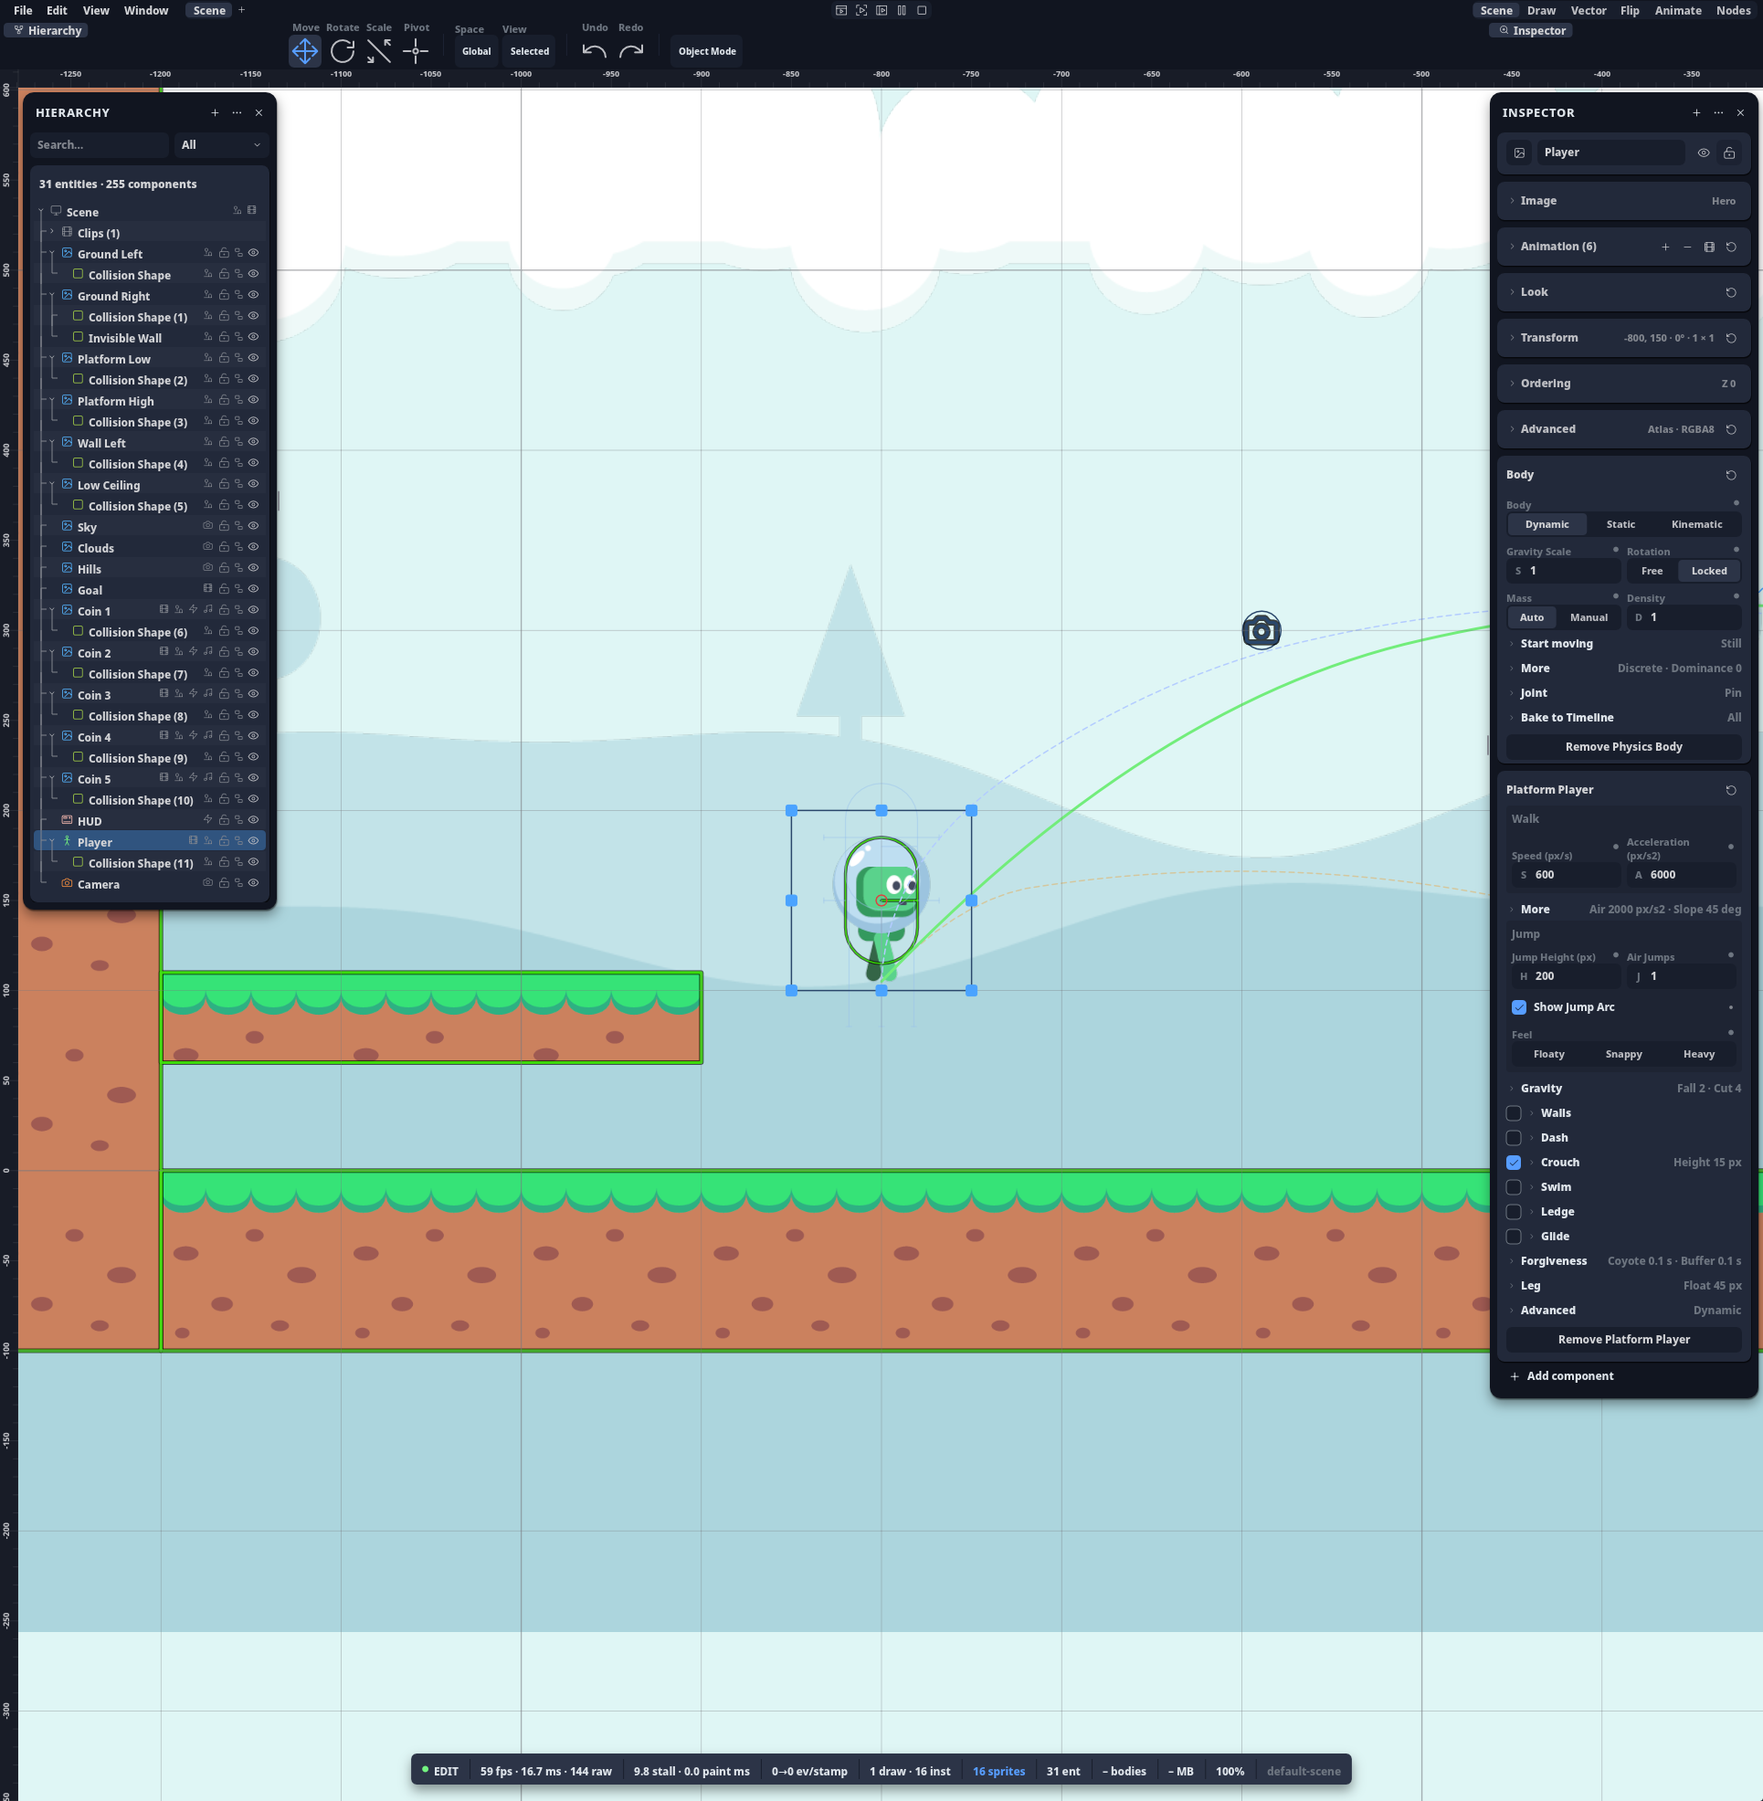
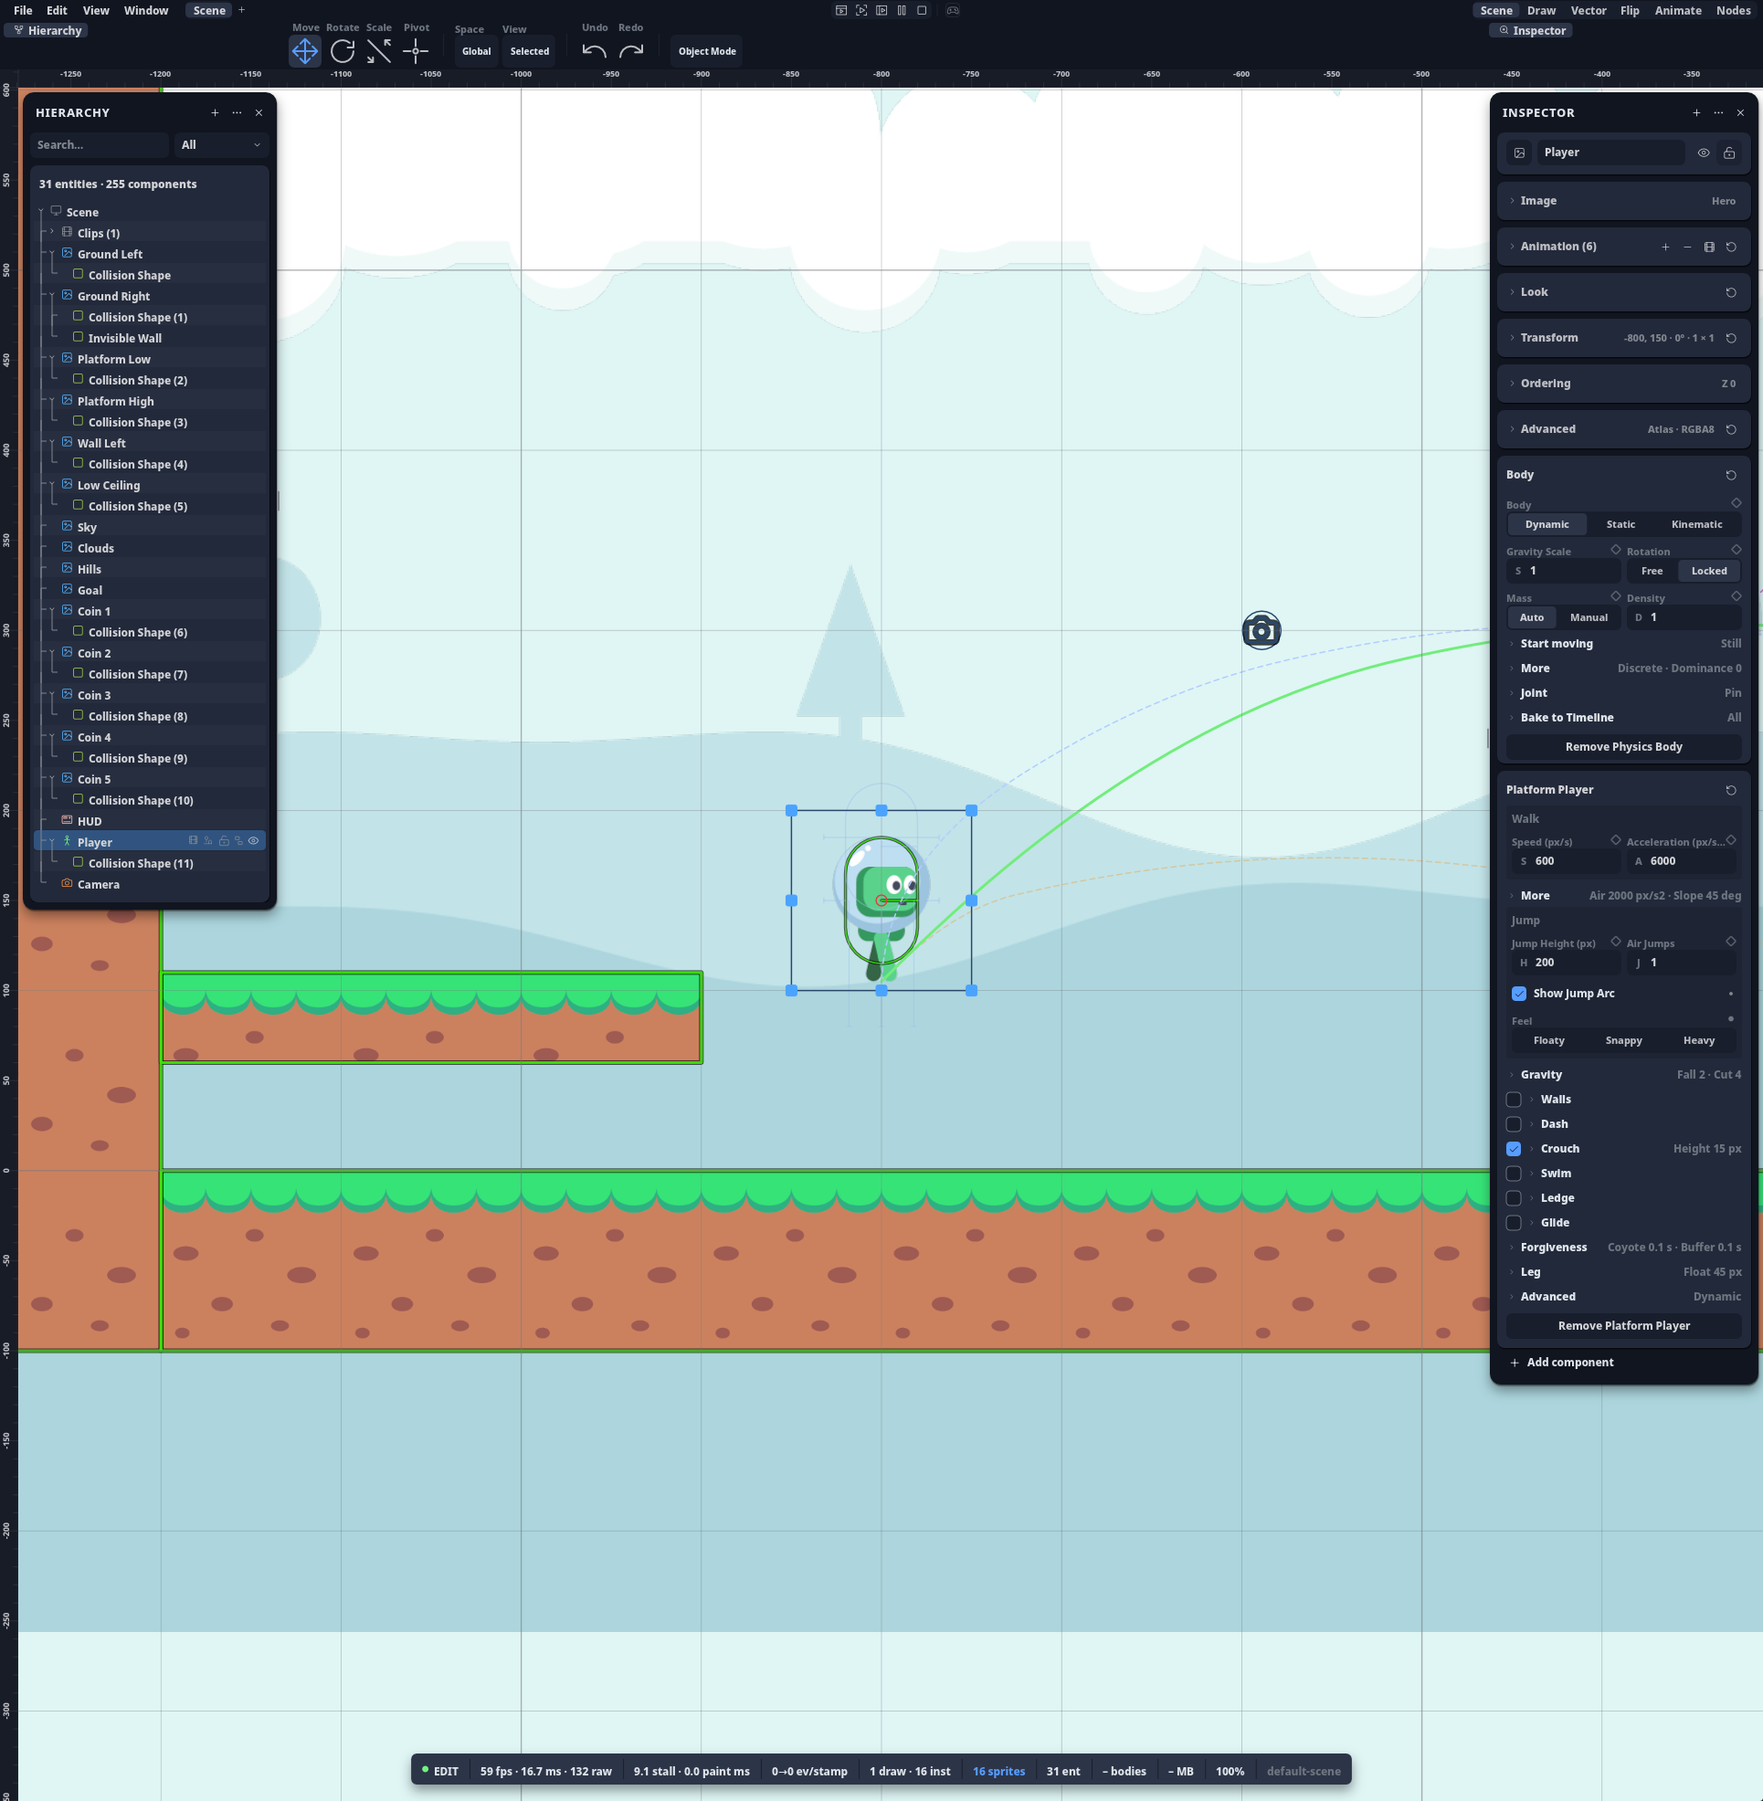
docs(GEF 04): fotos da curva no terreno e a altura real; ficha
Foto nova PH2D_GAME_SMOKE_FOTO=fisica_player_pulo_terreno (CasoFisica::PlayerPuloTerreno): o Player sobre a Platform Low, RECUO_DA_BORDA 2,1 m da borda direita — o Full desce ao chão da direita, o Standing pousa na Platform High, o Short pára na parede dela; vista de 16 m (VISTA_DO_TERRENO). Gate a_foto_do_terreno_desce_ao_chao_e_pousa_na_plataforma_alta (mutações: recuo 0,5 ⇒ Standing passa por cima; pose não movida ⇒ vermelho). curva_e_cartao.png refeita.

diff --git a/crates/ph2d-physics-scene/src/fotos_dos_cartoes_tests.rs b/crates/ph2d-physics-scene/src/fotos_dos_cartoes_tests.rs
@@ -1,0 +1,125 @@
+//! A foto `fisica_player_pulo_terreno` (ficha GEF 04, 12/11) mostra o que promete: na borda da «Platform Low»,
+//! uma curva desce ao chão de baixo e outra pousa na «Platform High».
+
+use super::*;
+use ph2d_physics_ecs::{PhysicsSettings, PlatformPlayer, arc_world};
+
+/// Os blocos do nível 2 que a foto enquadra (`ph2d_app_game::smoke::BLOCOS_2`: a crate do jogo está acima desta).
+const BLOCOS: [(&str, [f32; 2], [f32; 2]); 4] = [
+    ("Ground Left", [-5.0, -0.5], [7.0, 0.5]),
+    ("Ground Right", [11.0, -0.5], [6.0, 0.5]),
+    ("Platform Low", [3.5, 0.85], [1.2, 0.25]),
+    ("Platform High", [8.5, 2.0], [1.5, 0.25]),
+];
+const ALTA_TOPO: f32 = 2.25;
+const ALTA_X: [f32; 2] = [7.0, 10.0];
+
+fn nivel() -> SimWorld {
+    let mut sim = SimWorld::new();
+    let w = sim.world_mut();
+    for (nome, c, h) in BLOCOS {
+        w.spawn((
+            Transform::from_translation(Vec2::new(c[0], c[1])),
+            Name::new(nome),
+            Sprite::atlas(WHITE_TILE_KEY, [2.0 * h[0], 2.0 * h[1]], [1.0; 4]),
+            RigidBody {
+                kind: BodyKind::Static,
+            },
+            Collider {
+                shape: ColliderShape::Cuboid {
+                    half_x: h[0],
+                    half_y: h[1],
+                },
+                ..Collider::default()
+            },
+        ));
+    }
+    w.spawn((
+        Transform::from_translation(Vec2::new(-8.0, 1.5)),
+        Name::new("Player"),
+        RigidBody {
+            kind: BodyKind::Dynamic,
+        },
+        Collider {
+            shape: ColliderShape::Capsule {
+                half_height: 0.15,
+                radius: 0.2,
+            },
+            ..Collider::default()
+        },
+        PlatformPlayer {
+            float_height: 0.45,
+            ..PlatformPlayer::default()
+        },
+    ));
+    sim
+}
+
+/// Onde cada curva toca o terreno, em mundo, e o pé do arranque.
+struct Toques {
+    chao: [f32; 2],
+    full: Option<[f32; 2]>,
+    short: Option<[f32; 2]>,
+    standing: Option<[f32; 2]>,
+}
+
+fn toques(sim: &mut SimWorld, caso: CasoFisica) -> Toques {
+    let bits = prepara(sim, caso, [0.0, 0.0]).expect("o Player");
+    let e = Entity::from_bits(bits);
+    let w = sim.world();
+    let p = w.get::<PlatformPlayer>(e).expect("player");
+    let t = w.get::<Transform>(e).expect("pose");
+    assert!(p.show_jump_arc && p.air_jumps == 1, "a curva ligada");
+    let s = PhysicsSettings::default();
+    let mundo = arc_world(&s, 1.0);
+    let up = ph2d_physics_ecs::jump_arc::up_of_gravity(mundo.gravity);
+    let chao = [
+        t.translation.x - up[0] * p.float_height,
+        t.translation.y - up[1] * p.float_height,
+    ];
+    let mut a = p.jump_arcs(mundo);
+    ph2d_physics_ecs::arc_terrain::cut_on_terrain(w, &s, e, chao, up, &mut a);
+    let m =
+        |a: &ph2d_physics_ecs::jump_arc::JumpArc| a.touch.map(|t| [chao[0] + t[0], chao[1] + t[1]]);
+    Toques {
+        chao,
+        full: m(&a.full),
+        short: m(&a.short),
+        standing: m(&a.standing),
+    }
+}
+
+#[test]
+fn a_foto_do_terreno_desce_ao_chao_e_pousa_na_plataforma_alta() {
+    assert_eq!(
+        caso("fisica_player_pulo_terreno"),
+        Some(CasoFisica::PlayerPuloTerreno)
+    );
+    let t = toques(&mut nivel(), CasoFisica::PlayerPuloTerreno);
+    assert!(
+        (t.chao[1] - 1.1).abs() < 1e-4 && (t.chao[0] - (4.7 - RECUO_DA_BORDA)).abs() < 1e-4,
+        "o pé sobre a Platform Low: {:?}",
+        t.chao
+    );
+    let full = t.full.expect("o Full toca");
+    assert!(
+        full[1].abs() < 0.05 && full[0] > 5.0,
+        "o Full desce ao chão de baixo, além do vão: {full:?}"
+    );
+    let st = t.standing.expect("o Standing toca");
+    assert!(
+        (st[1] - ALTA_TOPO).abs() < 0.05 && (ALTA_X[0]..=ALTA_X[1]).contains(&st[0]),
+        "o Standing pousa em cima da Platform High: {st:?}"
+    );
+    let sh = t.short.expect("o Short toca");
+    assert!(
+        sh[0] < ALTA_X[0] && sh[1] > t.chao[1] && sh[1] < ALTA_TOPO,
+        "o Short pára no ar, na parede da Platform High (o pé abaixo do topo dela): {sh:?}"
+    );
+}
+
+#[test]
+fn a_foto_do_pulo_deixa_o_player_onde_a_cena_o_pos() {
+    let t = toques(&mut nivel(), CasoFisica::PlayerPulo);
+    assert!((t.chao[0] + 8.0).abs() < 1e-4 && (t.chao[1] - 1.05).abs() < 1e-4);
+}

diff --git a/crates/ph2d-physics-scene/src/fotos_dos_cartoes.rs b/crates/ph2d-physics-scene/src/fotos_dos_cartoes.rs
@@ -35,6 +35,9 @@ pub enum CasoFisica {
     PlayerCartoes,
     /// O mesmo com a curva do pulo no canvas (ficha GEF 04): «Show Jump Arc» marcado e um pulo do ar.
     PlayerPulo,
+    /// O mesmo sobre a «Platform Low» (12/11): o Full desce ao chão de baixo, o Standing pousa na
+    /// «Platform High» e o Short pára na parede dela.
+    PlayerPuloTerreno,
     /// Uma forma sem corpo acima: a «Collision Shape» acabada de nascer do menu Add.
     Solta,
     /// Uma forma dentro de um corpo.
@@ -177,6 +180,7 @@ pub fn caso(nome: &str) -> Option<CasoFisica> {
         "player" => CasoFisica::Player,
         "player_cartoes" => CasoFisica::PlayerCartoes,
         "player_pulo" => CasoFisica::PlayerPulo,
+        "player_pulo_terreno" => CasoFisica::PlayerPuloTerreno,
         "solta" => CasoFisica::Solta,
         "peca" => CasoFisica::Peca,
         "vazia" => CasoFisica::Vazia,
@@ -233,6 +237,20 @@ pub fn imagem_de(sim: &SimWorld, alvo: u64) -> u64 {
         .map_or(alvo, |c| c.parent().to_bits())
 }
 
+/// Do pé do player à borda direita da «Platform Low» (m). Sonda de 12/11 com os padrões: a 2,1 m o Standing
+/// pousa na alta (x 9,46), o Full desce ao chão (11,78) e o Short bate na parede da alta (6,8); a 0,5 m o
+/// Standing já passa por cima dela.
+pub const RECUO_DA_BORDA: f32 = 2.1;
+
+/// A borda direita e o topo da «Platform Low», pelo desenho do bloco (o azulejo tem o tamanho dele).
+fn borda_da_baixa(sim: &mut SimWorld) -> Option<[f32; 2]> {
+    let e = por_nome(sim, "Platform Low")?;
+    let w = sim.world();
+    let (t, s) = (w.get::<Transform>(e)?, w.get::<Sprite>(e)?);
+    let meia = [0.5 * s.size[0] * t.scale.x, 0.5 * s.size[1] * t.scale.y];
+    Some([t.translation.x + meia[0], t.translation.y + meia[1]])
+}
+
 /// Monta o caso no mundo e devolve quem fica selecionado: o corpo nas fotos do cartão Body, a filha
 /// «Collision Shape» nas da forma (o Pivot da [`CasoFisica::FormaPivo`] é da imagem: o pai dela).
 pub fn prepara(sim: &mut SimWorld, caso: CasoFisica, onde: [f32; 2]) -> Option<u64> {
@@ -246,14 +264,23 @@ pub fn prepara(sim: &mut SimWorld, caso: CasoFisica, onde: [f32; 2]) -> Option<u
         CasoFisica::Player | CasoFisica::PlayerCartoes | CasoFisica::FormaPlayer => {
             return por_nome(sim, "Player").map(|e| e.to_bits());
         }
-        CasoFisica::PlayerPulo => {
+        CasoFisica::PlayerPulo | CasoFisica::PlayerPuloTerreno => {
             let e = por_nome(sim, "Player")?;
-            if let Some(mut p) = sim
-                .world_mut()
-                .get_mut::<ph2d_physics_ecs::PlatformPlayer>(e)
-            {
+            let borda = match caso {
+                CasoFisica::PlayerPuloTerreno => Some(borda_da_baixa(sim)?),
+                _ => None,
+            };
+            let w = sim.world_mut();
+            let mut float = 0.0;
+            if let Some(mut p) = w.get_mut::<ph2d_physics_ecs::PlatformPlayer>(e) {
                 p.show_jump_arc = true;
                 p.air_jumps = 1;
+                float = p.float_height;
+            }
+            if let Some([direita, topo]) = borda
+                && let Some(mut t) = w.get_mut::<Transform>(e)
+            {
+                t.translation = Vec2::new(direita - RECUO_DA_BORDA, topo + float);
             }
             return Some(e.to_bits());
         }
@@ -271,6 +298,7 @@ pub fn prepara(sim: &mut SimWorld, caso: CasoFisica, onde: [f32; 2]) -> Option<u
         | CasoFisica::Player
         | CasoFisica::PlayerCartoes
         | CasoFisica::PlayerPulo
+        | CasoFisica::PlayerPuloTerreno
         | CasoFisica::FormaPlayer
         | CasoFisica::Baixa
         | CasoFisica::Larga => {
@@ -482,3 +510,7 @@ pub fn estado_do_player(sim: &mut SimWorld) -> String {
                 .and_then(|s| s.look.map(|l| (l.size, l.tiled.map(|t| t.tile)))))),
     )
 }
+
+#[cfg(test)]
+#[path = "fotos_dos_cartoes_tests.rs"]
+mod tests;

diff --git a/crates/ph2d-game-smoke-fotos/src/foto.rs b/crates/ph2d-game-smoke-fotos/src/foto.rs
@@ -235,6 +235,9 @@ pub struct FotoDaCamera {
 
 /// A vista do editor nas fotos da câmera: a câmera do nível ao lado do vão, com margem à volta.
 const VISTA_DA_CAMERA: ([f32; 2], f32) = ([-6.0, 3.0], 15.0);
+/// A vista da curva no terreno (GEF 04): o smoke centra-a no Player selecionado (`SetViewFocus`), e 16 m de
+/// altura alcançam o pouso do Full no chão da direita (x ≈ 11,8) entre a Hierarchy e o Inspector.
+const VISTA_DO_TERRENO: ([f32; 2], f32) = ([2.6, 1.6], 16.0);
 
 /// O que a foto pede, já resolvido no mundo — os gestos que o shell executa pelas MESMAS portas da mão.
 #[derive(Clone, Debug, PartialEq)]
@@ -316,6 +319,14 @@ pub fn plano_da_foto(
         Foto::Fisica(c) => {
             use ph2d_physics_scene::fotos_dos_cartoes as fisica;
             plano.alvo = fisica::prepara(sim, c, ONDE_LARGA)?;
+            if c == fisica::CasoFisica::PlayerPuloTerreno {
+                plano.camera = Some(FotoDaCamera {
+                    formato: ph2d_editor_core::GameFormat::default(),
+                    olhar: false,
+                    vista: VISTA_DO_TERRENO,
+                    canvas: ph2d_editor_core::CameraCanvasView::default(),
+                });
+            }
             if c == fisica::CasoFisica::Larga {
                 plano.edicoes = vec![(plano.alvo, ph2d_editor_core::ImageUseEdit::Width(4.0))];
             }

diff --git a/docs/GameEngineFuncional/componentes/04_curva_do_pulo.md b/docs/GameEngineFuncional/componentes/04_curva_do_pulo.md
@@ -16,7 +16,7 @@ Maquete: [`f4_maquete.html`](f4_maquete.html) · [foto](f4_maquete.png).
   com o botão solto na subida → `cut_gravity` (`:550`, não desarma); `|v| ≤ peak_speed` → `peak_gravity`;
   descendo → `fall_gravity`. O passo do jogador inteiro é `lib.rs:180` `player_motor(...)`; o andar no ar é
   `walk.rs` (`air_acceleration`, padrão 20).
-- **Consequência medida:** a altura REAL do ápice ≠ `jump_height` (o doc do módulo avisa: «altura de gravidade
+- **Consequência medida (antes de 12/11; hoje o ápice É a Jump Height):** a altura REAL do ápice ≠ `jump_height` (o doc do módulo avisa: «altura de gravidade
   neutra»). Com os padrões, 2,00 m autorados sobem 2,04 m. **Não há** função que derive o arco (ápice, tempo,
   alcance); a única medição é por simulação num teste ignorado (`ph2d-physics-ecs/tests/it/platform_jump.rs:281`).
 - **Parâmetros** — `JumpConfig` (`jump_config.rs:89`, padrões `:234`: H 2 · Air Jumps 0 · Air H 2 · Takeoff G 1
@@ -51,8 +51,8 @@ Maquete: [`f4_maquete.html`](f4_maquete.html) · [foto](f4_maquete.png).
 
 ### Canvas (com o player selecionado e a caixa marcada)
 
-Origem: os pés do player, para o lado em que ele olha. Chão de referência: a linha dos pés (o arco termina ao voltar
-a ela; não segue o terreno — ver «Aberto»).
+Origem: os pés do player, para o lado em que ele olha. Cada curva termina onde toca o terreno da cena (12/11,
+abaixo).
 
 | Curva | O que simula (a LEI, 60 Hz, gravidade do mundo) |
 |---|---|
@@ -118,9 +118,7 @@ curto mais alto que o Snappy (Cut G menor); se o dono sentir, sobe o Cut G do He
 ## Aberto (para o dono decidir ou depois)
 
 - **A ou B** na maquete (recomendo B).
-- O arco termina na linha dos pés; seguir o terreno da cena (bater em plataformas) é outro passo.
-- O campo Jump Height do cartão continua a dizer a altura «de gravidade neutra» (2,00) quando a alça mostra o
-  ápice real (2,04). Proposta: o rótulo da alça mostra o real; o campo fica como está.
+- ~~O arco termina na linha dos pés~~ e ~~Jump Height 2,00 × 2,04~~: fechados em 12/11 (abaixo).
 
 ## O que foi construído (10/11, aguarda o smoke do dono)
 
@@ -141,3 +139,25 @@ curto mais alto que o Snappy (Cut G menor); se o dono sentir, sobe o Cut G do He
 - **Fotos:** [`fotos_04/curva_no_canvas.png`](fotos_04/curva_no_canvas.png) ·
   [`fotos_04/curva_zoom.png`](fotos_04/curva_zoom.png) · [`fotos_04/curva_e_cartao.png`](fotos_04/curva_e_cartao.png)
   (`PH2D_GAME_SMOKE=4` + `PH2D_GAME_SMOKE_FOTO=fisica_player_pulo`: caixa marcada e 1 pulo do ar).
+
+## 12/11 — o terreno e a altura real
+
+- **A curva pousa no terreno** (`ced6a4ac0a`): a lei desce abaixo do arranque (`MAX_FALL_M` 24) e cada curva é
+  cortada no primeiro toque com as formas sólidas da cena (`ph2d-physics-ecs/src/arc_terrain.rs`, varredura
+  `ph2d-physics/src/world/arc_cast.rs`): sem sensores, sem formas desligadas, sem o player e as peças dele, pela
+  matriz de camadas, mão única só por cima. O painel pinta um **anel de pouso** na cor de cada curva.
+- **O ápice real é a Jump Height** (`f3a92736ab`): `launch_speed` resolve v₀ pelas bandas de gravidade; o cartão
+  diz 2,00 e a alça fica a 2,00.
+- **Fotos** (`PH2D_GAME_SMOKE=4`): [`curva_terreno.png`](fotos_04/curva_terreno.png) ·
+  [`curva_terreno_zoom.png`](fotos_04/curva_terreno_zoom.png) com `PH2D_GAME_SMOKE_FOTO=fisica_player_pulo_terreno`
+  (o Player sobre a «Platform Low», 2,1 m antes da borda: o Full desce ao chão da direita, o Standing pousa na
+  «Platform High», o Short pára na parede dela) · [`curva_e_cartao.png`](fotos_04/curva_e_cartao.png) refeita
+  com `fisica_player_pulo`. Gate da pose: `a_foto_do_terreno_desce_ao_chao_e_pousa_na_plataforma_alta`
+  (`ph2d-physics-scene`; mutações recuo 0,5 m e pose não movida ⇒ vermelho).
+- **Custo medido:** `launch_speed` 0,20 µs por chamada; lei + corte **54,3 µs** por chamada com 3 formas e Air
+  Jumps 1 — 2 chamadas por quadro, só com a curva ligada e o relógio parado. Escala com o número de formas: se
+  um nível grande o mostrar, cache por (config, pose, versão das formas).
+- **Visto nas fotos (para o smoke):** o anel do Short fica no ar, ~0,2 m antes e abaixo do canto da «Platform High»:
+  o anel marca o PÉ, e quem bate é o topo da cápsula (pé + 0,8 m) contra o canto de baixo — leitura certa da lei,
+  mas pode ler-se como «parou do nada». O pulo do ar sai pela direita da vista (pousa além dos 13 m, atrás do
+  Inspector) e a vista é larga (16 m: o smoke centra no Player selecionado).
